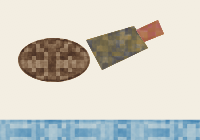
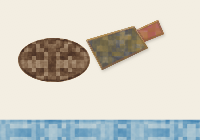
Cut paper through the GPU gate: a folded card's tone is its own pass beside its rim (the pigment compositor's hooks each declare its paper's constants, so one shader takes one hook); three's soft shadows compare each tap against the receiver's plane there (receiver-plane depth bias), so a face the k

diff --git a/lib/paint/three-layers/studio/painted-three-shadows.ts b/lib/paint/three-layers/studio/painted-three-shadows.ts
@@ -1,15 +1,15 @@
 // painted-three-shadows.ts: shadow maps for a three source that asks for them (PaintedThreeSourceScene.shadows), on
 // around that source's renders alone and put back after, as the renderer is the device's one.
 //
-// Soft shadows are percentage-closer soft shadows: a search round the receiver finds how far its blockers lie,
-// and the penumbra widens with the gap behind them, so a contact stays tight and a cast shadow softens. The search
-// reaches as far as a blocker on the shadow camera's near plane could shade. The taps' noise is fixed per pixel,
-// so a fast frame and a reference exposure draw one shadow.
+// Soft shadows are percentage-closer soft shadows: a search round the receiver finds how far its blockers lie, and
+// the penumbra widens with the gap behind them. The search reaches as far as a near-plane blocker could shade. Tap
+// noise is fixed per pixel, so a fast frame and a reference draw one shadow. Each tap compares against the
+// receiver's plane there (receiver-plane depth bias), or a face the light grazes shades itself.
 // Negative space: a reversed depth buffer would turn the search's comparison round; the studio's renderer has none.
 
 import { DirectionalLight, PCFShadowMap, SpotLight, Vector3, type DepthTexture, type LightShadow, type Node, type Scene, type TextureNode, type WebGPURenderer } from 'three/webgpu';
 import {
-  float, Fn, int, interleavedGradientNoise, ivec2, Loop, orthographicDepthToViewZ, perspectiveDepthToViewZ, reference, screenCoordinate, step, tan, texture, textureLoad, uniform,
+  dFdx, dFdy, float, Fn, int, interleavedGradientNoise, ivec2, Loop, orthographicDepthToViewZ, perspectiveDepthToViewZ, reference, screenCoordinate, step, tan, texture, textureLoad, uniform,
   vec2, vogelDiskSample,
 } from 'three/tsl';
 
@@ -26,6 +26,11 @@ export type PaintedThreeShadows = { readonly softness?: number };
  * lie too far apart to find a caster's edge.
  */
 const PAINTED_THREE_SOFTNESS_MOST = 20;
+/**
+ * The steepest a receiver's plane is taken to run, depth per shadow-map uv: about 85° to the light. Past it, nearly
+ * edge-on, the plane's depth jumps between pixels and would push taps behind real blockers.
+ */
+const PAINTED_THREE_RECEIVER_SLOPE_MOST = 10;
 /** Taps finding a receiver's blockers (raw depth reads), then filtering its penumbra (each a hardware 2 × 2 comparison). */
 const PAINTED_THREE_SEARCH_TAPS = 32;
 const PAINTED_THREE_FILTER_TAPS = 32;
@@ -53,6 +58,12 @@ function paintedThreeSoftShadowFilter(light: DirectionalLight | SpotLight, tange
     const mapSize = reference('mapSize', 'vec2', shadow), texel = vec2(1).div(mapSize);
     const distanceAt = (depth: Node<'float'>): Node<'float'> => (spot ? perspectiveDepthToViewZ(depth, near, far) : orthographicDepthToViewZ(depth, near, far)).negate();
     const receiver = shadowCoord.z, reached = distanceAt(receiver).toVar();
+    // The receiver's depth gradient over shadow-map uv, from its screen derivatives; none where they're degenerate.
+    const dx = dFdx(shadowCoord), dy = dFdy(shadowCoord), det = dx.x.mul(dy.y).sub(dx.y.mul(dy.x));
+    const solved = vec2(dy.y.mul(dx.z).sub(dx.y.mul(dy.z)), dx.x.mul(dy.z).sub(dy.x.mul(dx.z))).div(det);
+    const slope = det.abs().greaterThan(1e-12).select(solved, vec2(0)).toVar();
+    slope.assign(slope.mul(float(PAINTED_THREE_RECEIVER_SLOPE_MOST).div(slope.length().max(PAINTED_THREE_RECEIVER_SLOPE_MOST))));
+    const receiverAt = (offset: Node<'vec2'>) => receiver.add(slope.dot(offset));
     // Shadow-map uv a world unit spans across the light's view where the receiver lies.
     const uvPerUnit = spot
       ? vec2(at('aspect').reciprocal(), 1).mul(zoom.div(reached.mul(2).mul(tan(at('fov').mul(Math.PI / 360)))))
@@ -70,10 +81,11 @@ function paintedThreeSoftShadowFilter(light: DirectionalLight | SpotLight, tange
     const search = uvPerUnit.mul(penumbra(near)).max(texel);
     const blockers = float(0).toVar(), blockersReach = float(0).toVar();
     Loop(PAINTED_THREE_SEARCH_TAPS, ({ i }) => {
-      const tap = shadowCoord.xy.add(vogelDiskSample(i, int(PAINTED_THREE_SEARCH_TAPS), phi).mul(search)).mul(mapSize).clamp(vec2(0), mapSize.sub(1));
+      const offset = vogelDiskSample(i, int(PAINTED_THREE_SEARCH_TAPS), phi).mul(search);
+      const tap = shadowCoord.xy.add(offset).mul(mapSize).clamp(vec2(0), mapSize.sub(1));
       // A depth texture reads as one float; @types/three types it a vec4, whose .r three passes over.
       const depth = layered(textureLoad(depthTexture, ivec2(tap), int(0))).r.toVar();
-      const blocks = step(depth, receiver);
+      const blocks = step(depth, receiverAt(offset));
       blockers.addAssign(blocks);
       blockersReach.addAssign(distanceAt(depth).mul(blocks));
     });
@@ -82,7 +94,8 @@ function paintedThreeSoftShadowFilter(light: DirectionalLight | SpotLight, tange
     const spread = uvPerUnit.mul(penumbra(blockersReach.div(blockers.max(1)))).max(texel);
     const lit = float(0).toVar();
     Loop(PAINTED_THREE_FILTER_TAPS, ({ i }) => {
-      lit.addAssign(layered(texture(depthTexture, shadowCoord.xy.add(vogelDiskSample(i, int(PAINTED_THREE_FILTER_TAPS), phi).mul(spread)))).compare(receiver));
+      const offset = vogelDiskSample(i, int(PAINTED_THREE_FILTER_TAPS), phi).mul(spread);
+      lit.addAssign(layered(texture(depthTexture, shadowCoord.xy.add(offset))).compare(receiverAt(offset)));
     });
     // No blocker found: lit, unless one too thin for the search's taps covers the receiver itself.
     return blockers.greaterThan(0).select(lit.div(PAINTED_THREE_FILTER_TAPS), own);

diff --git a/lib/paint/painting/studio/stamp-card-relief-pass.ts b/lib/paint/painting/studio/stamp-card-relief-pass.ts
@@ -37,8 +37,8 @@ export type StampCardReliefOnto = { readonly compositor: StampPaintCompositor; r
 /** Uniform slots a card's cast may take beside its occluding: its coverage, two blurs and its shadow. */
 const CAST_SLOTS = 4;
 
-/** Uniform slots a card's relief may take over a composite of `cards` card steps among `sheets` sheets, rims included. */
-export const stampCardReliefSlots = (cards: number, sheets: number) => cards * (CAST_SLOTS + sheets + 1);
+/** Uniform slots a card's relief may take over a composite of `cards` card steps among `sheets` sheets: rims and tones included. */
+export const stampCardReliefSlots = (cards: number, sheets: number) => cards * (CAST_SLOTS + sheets + 2);
 
 const CARD_CAST = gpuUniformLayout('CardCast', [['origin', 'vec2u'], ['extent', 'vec2u'], ['edgeOrigin', 'vec2u'], ['edgeExtent', 'vec2u'], ['moved', 'u32']]);
 // A caster's coverage over its box into a level: (cover, 0, 0, 0), its waiting-rim channel cleared.
@@ -116,17 +116,34 @@ ${CARD_SHADOW.wgsl}
 }`;
 
 const CARD_RIM = gpuUniformLayout('CardRim', [['origin', 'vec2u'], ['extent', 'vec2u'], ['boxOrigin', 'vec2u'], ['boxExtent', 'vec2u'], ['lipToward', 'vec2f'], ['tone', 'f32']]);
+// A shader takes one compositor hook: the pigment compositor's hooks each declare its paper's constants.
 const arrayView = (texture: GPUTexture) => texture.createView({ dimension: '2d-array' });
 const wgslColor = (hex: string) => `vec3f(${stampHexRgb(hex).map((c) => c.toFixed(4)).join(', ')})`;
+// A folded card's face takes its tone, paper and paint alike, as far as it shows past what was laid over it since.
+const toneWgsl = (compositor: StampPaintCompositor, stage: StampStage) => /* wgsl */ `
+${stampStageWgsl(stage)}
+${stampPaintTargetWgsl('painting', 2, compositor.targets.painting, 'read_write')}
+${GPU_SRGB_WGSL}
+${compositor.shade}
+${BOXED_WGSL}
+${CARD_RIM.wgsl}
+@group(0) @binding(0) var<uniform> u: CardRim;
+@group(0) @binding(1) var level: texture_2d<f32>;
+@compute @workgroup_size(${STAMP_WORKGROUP}, ${STAMP_WORKGROUP}) fn cardTone(@builtin(global_invocation_id) id: vec3u) {
+  if (any(id.xy >= u.extent)) { return; }
+  let pixel = u.origin + id.xy;
+  let held = boxedTexel(level, vec2i(pixel), vec2i(u.boxOrigin), vec2i(u.boxOrigin + u.boxExtent));
+  let shown = held.r * (1.0 - clamp(held.g, 0.0, 1.0));
+  if (shown > 0.0) { layShade(pixel, vec3f(u.tone), shown); }
+}`;
 // A card's rim from its level: each texel's distance inside the coverage's edge (to the nearest texel under half
-// cover), its outward normal toward that texel. A folded face takes its tone first, paper and paint alike; then the
-// cut line and the lip where the normal faces the light, all thinned by what was laid over the card since.
+// cover), its outward normal toward that texel. The cut line lies over the band, the lip where the normal faces the
+// light; both thinned by what was laid over the card since.
 const rimWgsl = (compositor: StampPaintCompositor, stage: StampStage) => /* wgsl */ `
 ${stampStageWgsl(stage)}
 ${stampPaintTargetWgsl('painting', 2, compositor.targets.painting, 'read_write')}
 ${GPU_SRGB_WGSL}
 ${compositor.card}
-${compositor.shade}
 ${BOXED_WGSL}
 ${CARD_RIM.wgsl}
 @group(0) @binding(0) var<uniform> u: CardRim;
@@ -141,7 +158,6 @@ fn band(d: f32, width: f32) -> f32 { return 1.0 - smoothstep(width - 0.5, width 
   let held = boxedTexel(level, p, vec2i(u.boxOrigin), vec2i(u.boxOrigin + u.boxExtent));
   let shown = held.r * (1.0 - clamp(held.g, 0.0, 1.0));
   if (shown <= 0.0) { return; }
-  if (u.tone < 1.0) { layShade(pixel, vec3f(u.tone), shown); }
   var inside = f32(RIM_REACH) + 1.0;
   var outward = vec2f(0.0);
   if (held.r <= 0.5) {
@@ -281,7 +297,7 @@ export function createStampCardRelief(owner: StampPaintGpuOwner, { stage, arena 
       boxes.delete(level);
       // A texel round the box, for the edge's antialiasing just past what was drawn.
       const laid = stampStageTexelsGrown(stage, box, 1), { compositor } = onto, toward = stampCardLipToward(onto.light);
-      dispatchStampCompute(device, encoder, pipelineOf(`rim ${compositorKey(compositor)}`, () => rimWgsl(compositor, stage)), [
+      const pass = (name: string, code: () => string) => dispatchStampCompute(device, encoder, pipelineOf(`${name} ${compositorKey(compositor)}`, code), [
         arena.slot((views) => {
           const put = gpuUniformWriter(CARD_RIM, views);
           put('origin', [laid.x, laid.y]);
@@ -293,6 +309,8 @@ export function createStampCardRelief(owner: StampPaintGpuOwner, { stage, arena 
         }),
         stageTarget(`level ${level}`, encoder).createView(), onto.painting,
       ], laid.w, laid.h);
+      if (tone < 1) pass('tone', () => toneWgsl(compositor, stage));
+      pass('rim', () => rimWgsl(compositor, stage));
     },
   };
 }

diff --git a/lib/paint/gate/models/stamp-gate-card-shadows.ts b/lib/paint/gate/models/stamp-gate-card-shadows.ts
@@ -47,21 +47,21 @@ const TURNER_PIVOT = { x: 168, y: 34 } as const;
 export const STAMP_GATE_CARD_SHADOWS_FADE = [{ from: 0, visibility: 1 }, { from: 1, visibility: 0.5 }, { from: 2, visibility: 0 }] as const;
 
 /**
- * Where the checks look, frame px: just past the still card's lower edge (where its shadow falls) and upper edge
- * (where none may); a band round the flat card and the fader; the nest's right edge under the chip and below it; the
- * turner's top and bottom edge bands; and past the mover's lower edge once moved.
+ * Where the checks look, frame px: 2–3 px past the still card's low left edge, where its shadow falls, and its upper
+ * edge, where none may; bands round the flat card and the fader; the nest's right edge under the chip and below it;
+ * the turner's top and bottom edges; past the mover's lower edge once moved.
  */
 export const STAMP_GATE_CARD_SHADOWS_LOOK = {
-  belowStill: { x0: 24, y0: 61, x1: 56, y1: 64 },
+  belowStill: { x0: 20, y0: 60, x1: 36, y1: 62 },
   aboveStill: { x0: 22, y0: 8, x1: 56, y1: 12 },
   aroundFlat: { x0: 72, y0: 72, x1: 132, y1: 132 },
   aroundFader: { x0: 8, y0: 72, x1: 68, y1: 132 },
-  belowFader: { x0: 22, y0: 125, x1: 58, y1: 129 },
+  belowFader: { x0: 22, y0: 124, x1: 58, y1: 127 },
   nestEdgeUnderChip: { x0: 121, y0: 31, x1: 126, y1: 45 },
   nestEdgeBelowChip: { x0: 117, y0: 53, x1: 124, y1: 59 },
   turnerTop: { x0: 154, y0: 16, x1: 182, y1: 18 },
   turnerBottom: { x0: 154, y0: 50, x1: 182, y1: 52 },
-  belowMover: { x0: 166, y0: 111, x1: 186, y1: 114 },
+  belowMover: { x0: 166, y0: 110, x1: 186, y1: 113 },
 } as const satisfies Readonly<Record<string, StampGateCardShadowsBox>>;
 
 const cardShadowsProperties = { lit: { type: 'boolean', default: true }, nestRim: { type: 'boolean', default: true } } as const satisfies PropertySchema;

diff --git a/lib/paint/gate/models/stamp-gate-reveals.ts b/lib/paint/gate/models/stamp-gate-reveals.ts
@@ -278,12 +278,22 @@ const REEDS_REVEAL = { kind: 'field', base: { kind: 'linear', from: { x: 0, y: 1
 
 const reedsProperties = { revealed: { type: 'boolean', default: true } } as const satisfies PropertySchema;
 
-/** The rigged heron, its reeds (a group owning its sheet, so a rig of it is drawn as pieces) revealed by REEDS_REVEAL when `revealed`. */
+/** `nodes` with the reeds' own sheet laid flat. */
+const flatReeds = (nodes: readonly LayerNode[]): LayerNode[] => nodes.map((node) => {
+  const flat = node.key === 'reeds' && node.sheet?.kind === 'own' ? { ...node, sheet: { ...node.sheet, card: 'flat' as const } } : node;
+  return flat.children ? { ...flat, children: flatReeds(flat.children) } : flat;
+});
+
+/**
+ * The rigged heron, its reeds (a group owning its sheet, so a rig of it is drawn as pieces) revealed by REEDS_REVEAL
+ * when `revealed`. Their card lies flat: its rim and shadow would follow the reveal's front a few px past the cut
+ * this page holds to.
+ */
 export const STAMP_GATE_REVEALED_REEDS: PaintingSourceModule<typeof reedsProperties> = {
   properties: reedsProperties,
   default: function gateRevealedReeds({ revealed }: PropertyValues<typeof reedsProperties>): PaintingDocument {
-    const heron = STAMP_GATE_RIGGED_HERON.default({});
-    return revealed ? { ...heron, layers: revealedNodes(heron.layers, { reeds: REEDS_REVEAL }) } : heron;
+    const heron = STAMP_GATE_RIGGED_HERON.default({}), layers = flatReeds(heron.layers);
+    return { ...heron, layers: revealed ? revealedNodes(layers, { reeds: REEDS_REVEAL }) : layers };
   },
 };
 
